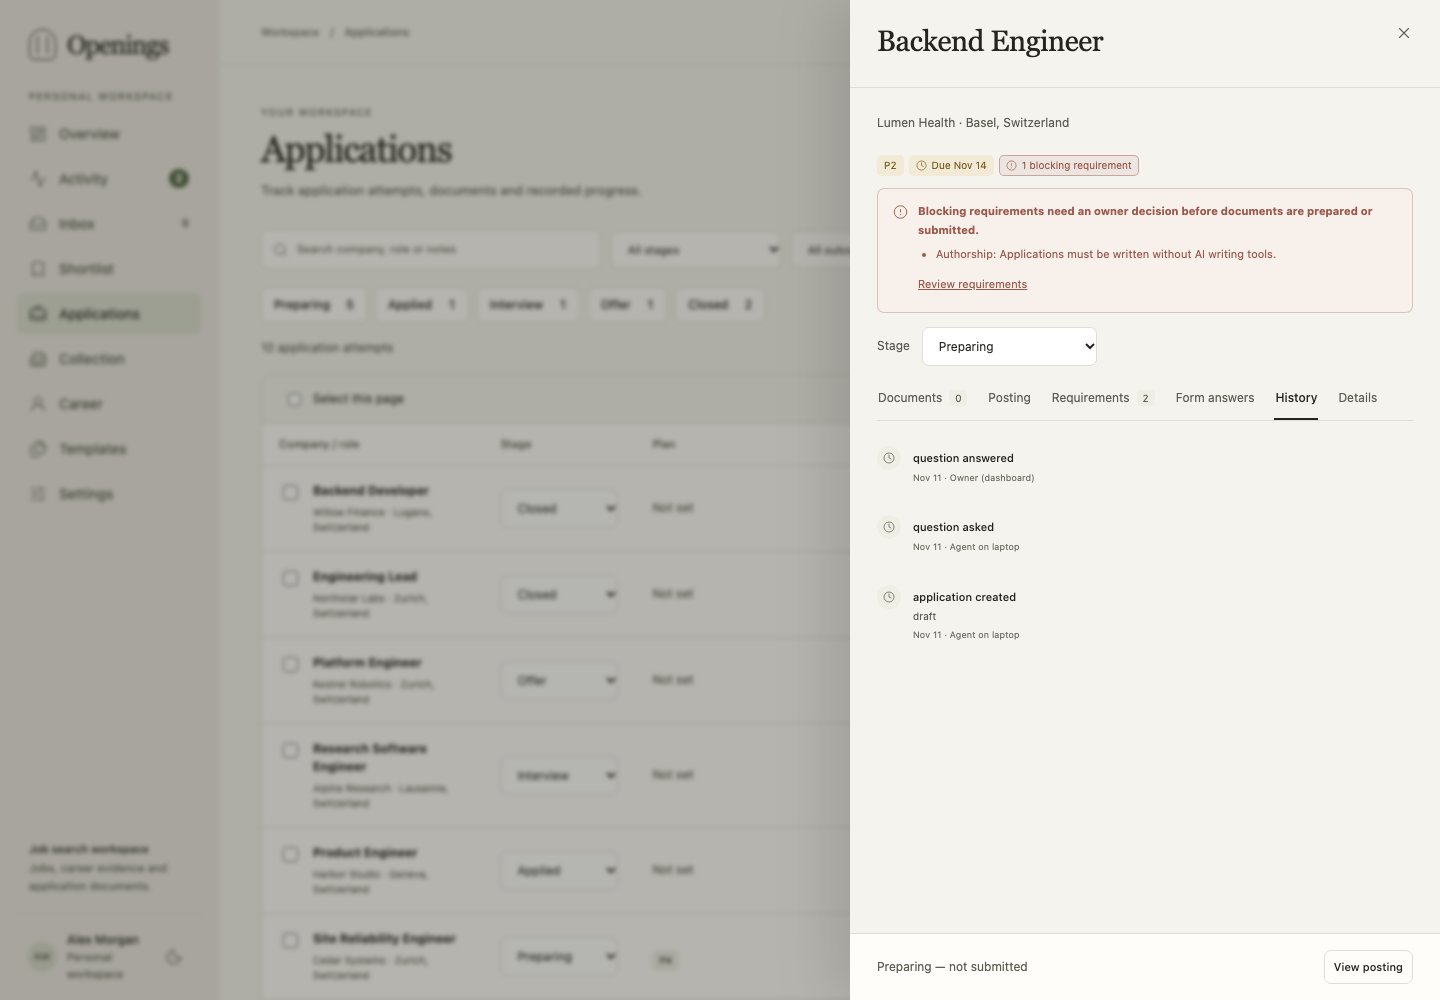
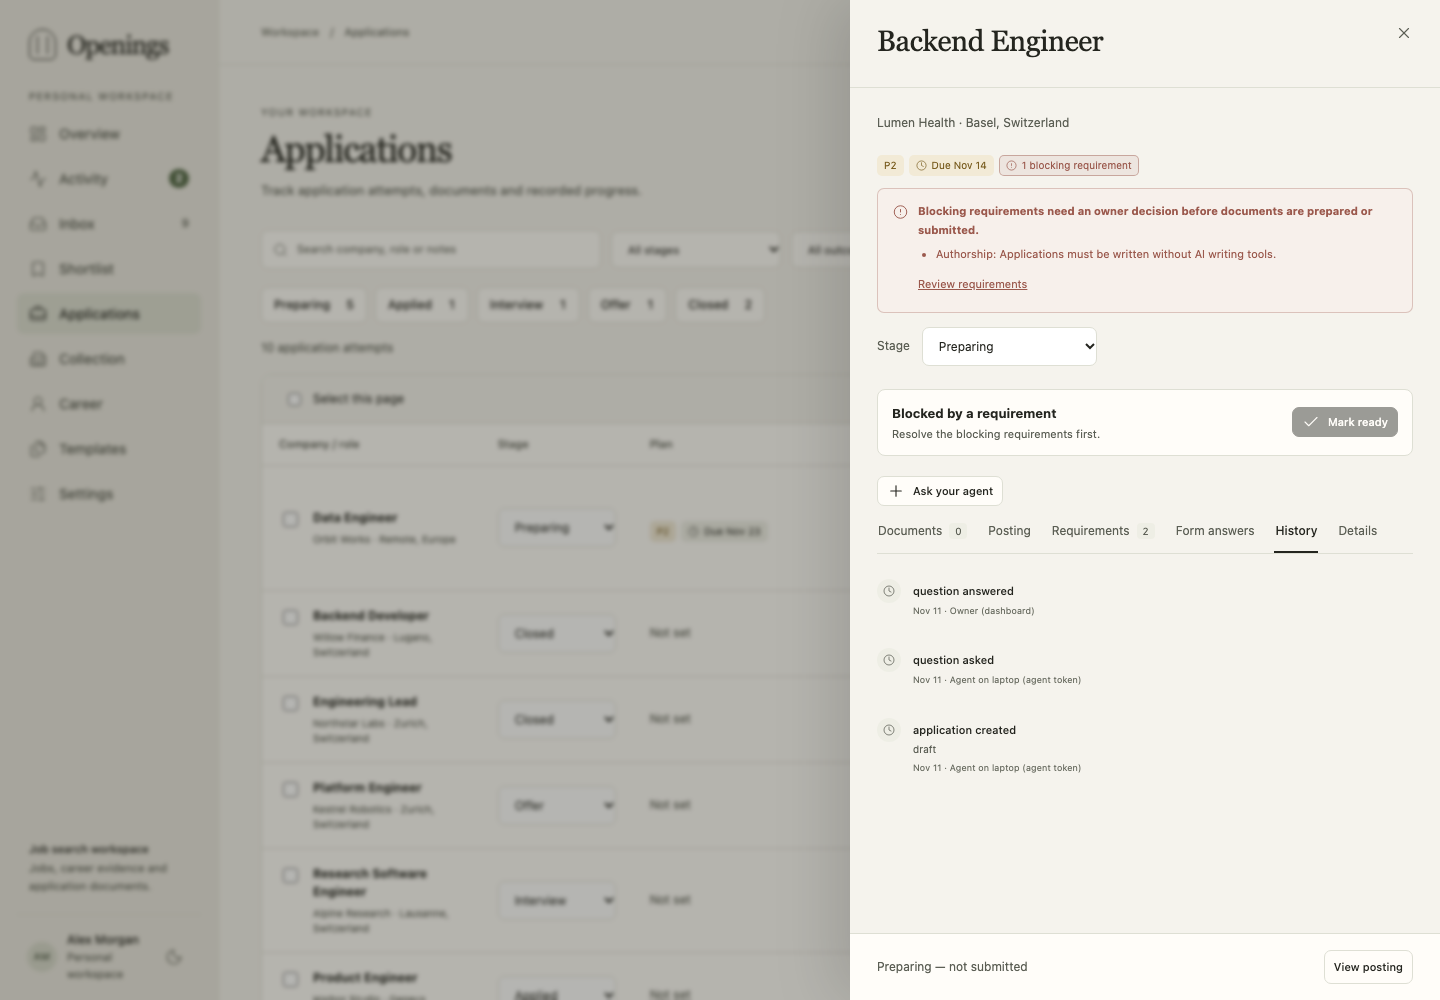
Refresh screenshots and browser evidence for Ready, token kinds and requests
Regenerates docs/images from the synthetic workspace and re-records which
operations the dashboard calls in the browser tests. The Applications stage
overview now has a sixth button, the Ready to apply queue.

diff --git a/frontend/tests/workspace.spec.ts b/frontend/tests/workspace.spec.ts
@@ -438,7 +438,7 @@ test("mobile applications, templates and funnel stay usable inside the viewport"
   await page.setViewportSize({ width: 390, height: 844 });
   await go(page, "applications");
   await expect(page.locator(".application-list")).toBeVisible();
-  await expect(page.locator(".stage-overview .btn")).toHaveCount(5);
+  await expect(page.locator(".stage-overview .btn")).toHaveCount(6);
   await expect
     .poll(() => page.evaluate(() => document.documentElement.scrollWidth))
     .toBeLessThanOrEqual(390);

diff --git a/docs/developer/parity.md b/docs/developer/parity.md
@@ -35,8 +35,8 @@ How to read the evidence:
 | With inputs the dashboard never mentions | 9 |
 | With free-form JSON edited as raw JSON | 13 |
 | With different REST and MCP input names | 1 |
-| With a dashboard path exercised by e2e | 43 |
-| With a dashboard path but no e2e evidence | 53 |
+| With a dashboard path exercised by e2e | 51 |
+| With a dashboard path but no e2e evidence | 45 |
 
 ## Gaps
 
@@ -145,7 +145,7 @@ missing from the inventory.
 
 ### Dashboard paths without e2e evidence
 
-`workspace.capabilities`, `skills.list`, `jobs.create`, `jobs.triage`, `jobs.bulk`, `jobs.duplicates`, `jobs.merge`, `jobs.delete`, `notes.read`, `notes.update`, `notes.delete`, `collection.update`, `sources.preview`, `sources.create`, `sources.bulk`, `tasks.list`, `tasks.read`, `tasks.cancel`, `tasks.retry`, `profile.update`, `knowledge.create`, `knowledge.delete`, `claims.read`, `claims.create`, `claims.update`, `claims.delete`, `templates.create`, `templates.update`, `templates.delete`, `instructions.update`, `career.preview_import`, `career.import`, `applications.create`, `applications.ready`, `applications.delete`, `applications.bulk`, `contexts.read`, `applications.staleness`, `documents.delete`, `files.read`, `backup.download`, `backup.restore`, `questions.withdraw`, `requests.list`, `requests.create`, `requests.withdraw`, `tokens.list`, `tokens.create`, `tokens.revoke`, `password.update`, `collection.runs.list`, `collection.runs.read`, `collection.runs.cancel`
+`workspace.capabilities`, `jobs.create`, `jobs.triage`, `jobs.bulk`, `jobs.duplicates`, `jobs.merge`, `jobs.delete`, `notes.read`, `notes.update`, `notes.delete`, `collection.update`, `sources.preview`, `sources.create`, `sources.bulk`, `tasks.list`, `tasks.read`, `tasks.cancel`, `tasks.retry`, `profile.update`, `knowledge.create`, `knowledge.delete`, `claims.read`, `claims.create`, `claims.update`, `claims.delete`, `templates.create`, `templates.update`, `templates.delete`, `instructions.update`, `career.preview_import`, `career.import`, `applications.create`, `applications.delete`, `applications.bulk`, `contexts.read`, `applications.staleness`, `documents.delete`, `files.read`, `backup.download`, `backup.restore`, `questions.withdraw`, `password.update`, `collection.runs.list`, `collection.runs.read`, `collection.runs.cancel`
 
 ## Matrix
 
@@ -153,13 +153,13 @@ missing from the inventory.
 
 | Operation | REST | MCP | Access | Dashboard location | Dashboard code | Editor | E2E |
 |---|---|---|---|---|---|---|---|
-| `workspace.info`<br>Read workspace identity and workflow | `GET /workspace` | `workspace_info` | any | Settings: workspace information | pages/Settings.tsx | structured | 1 |
+| `workspace.info`<br>Read workspace identity and workflow | `GET /workspace` | `workspace_info` | any | Settings: workspace information | pages/Settings.tsx | structured | 2 |
 | `workspace.capabilities`<br>Read supported logical operations and transport exceptions | `GET /capabilities` | `capabilities_get` | any | Settings: capabilities/help | pages/Settings.tsx | structured | **0** |
-| `skills.list`<br>List shipped agent workflow skills | `GET /skills` | `skills_list` | any | Settings: Connect an agent | pages/Settings.tsx | structured | **0** |
+| `skills.list`<br>List shipped agent workflow skills | `GET /skills` | `skills_list` | any | Settings: Connect an agent | pages/Settings.tsx | structured | 1 |
 | `skills.read`<br>Read a skill or one of its reference files | `GET /skills/{name}`<br>`GET /skills/{name}/files/{path}` | `skill_get` | any | Settings: Connect an agent | **none** | — | — |
-| `overview.read`<br>Read submitted-attempt funnel and activity for a period | `GET /overview` | `overview_get` | any | Overview: period selector and funnel | pages/Overview.tsx | structured | 15 |
-| `jobs.list`<br>Search/filter/sort paginated job summaries | `GET /jobs` | `jobs_search` | any | Inbox: search, filters, pagination | App.tsx<br>pages/Jobs.tsx<br>pages/Settings.tsx | structured | 15 |
-| `jobs.read`<br>Read full posting, metadata and source provenance | `GET /jobs/{job_id}` | `job_get` | any | Inbox: job detail | pages/Jobs.tsx | structured | 5 |
+| `overview.read`<br>Read submitted-attempt funnel and activity for a period | `GET /overview` | `overview_get` | any | Overview: period selector and funnel | pages/Overview.tsx | structured | 18 |
+| `jobs.list`<br>Search/filter/sort paginated job summaries | `GET /jobs` | `jobs_search` | any | Inbox: search, filters, pagination | App.tsx<br>pages/Jobs.tsx<br>pages/Settings.tsx | structured | 18 |
+| `jobs.read`<br>Read full posting, metadata and source provenance | `GET /jobs/{job_id}` | `job_get` | any | Inbox: job detail | pages/Jobs.tsx | structured | 6 |
 | `jobs.create`<br>Import a URL, pasted posting or structured job | `POST /jobs` | `job_ingest` | any | Inbox: Add job | pages/Jobs.tsx | raw JSON: metadata | **0** |
 | `jobs.update`<br>Correct job fields and metadata | `PATCH /jobs/{job_id}` | `job_update` | any | Inbox: edit job | pages/Jobs.tsx | raw JSON: metadata | 1 |
 | `jobs.triage`<br>Shortlist, dismiss or return a job to review | `POST /jobs/{job_id}/triage` | `job_triage` | any | Inbox: Add/remove shortlist, Dismiss, Restore | pages/Jobs.tsx | structured | **0** |
@@ -168,7 +168,7 @@ missing from the inventory.
 | `jobs.duplicates`<br>List candidate duplicate job groups for review | `GET /jobs/duplicates` | `jobs_duplicates` | any | Jobs: Possible duplicates tab; Job details: Possible duplicates | pages/Jobs.tsx | structured | **0** |
 | `jobs.merge`<br>Merge verified duplicate jobs and retain history | `POST /jobs/{job_id}/merge` | `job_merge` | any | Inbox: merge duplicate | pages/Jobs.tsx | structured | **0** |
 | `jobs.delete`<br>Permanently forget job-owned data and identities | `DELETE /jobs/{job_id}` | `job_forget` | any | Inbox: Forget | pages/Jobs.tsx | structured | **0** |
-| `notes.list`<br>List job notes | `GET /jobs/{job_id}/notes` | `notes_list` | any | Inbox: notes | pages/Jobs.tsx | structured | 5 |
+| `notes.list`<br>List job notes | `GET /jobs/{job_id}/notes` | `notes_list` | any | Inbox: notes | pages/Jobs.tsx | structured | 6 |
 | `notes.read`<br>Read one note and its version | `GET /notes/{note_id}` | `note_get` | any | Inbox: note editor | pages/Jobs.tsx | structured | **0** |
 | `notes.create`<br>Add a job note with optional application association | `POST /jobs/{job_id}/notes` | `note_add` | any | Inbox/Applications: add note | pages/Jobs.tsx | structured | 1 |
 | `notes.update`<br>Edit a note with version protection | `PATCH /notes/{note_id}` | `note_update` | any | Inbox/Applications: edit note | pages/Jobs.tsx | structured | **0** |
@@ -203,7 +203,7 @@ missing from the inventory.
 
 | Operation | REST | MCP | Access | Dashboard location | Dashboard code | Editor | E2E |
 |---|---|---|---|---|---|---|---|
-| `profile.read`<br>Read profile, links, metadata and version | `GET /career/profile` | `career_get_profile` | any | Career: profile | App.tsx<br>pages/Career.tsx | structured | 15 |
+| `profile.read`<br>Read profile, links, metadata and version | `GET /career/profile` | `career_get_profile` | any | Career: profile | App.tsx<br>pages/Career.tsx | structured | 18 |
 | `profile.update`<br>Edit profile/preferences/contact | `PATCH /career/profile` | `career_update_profile` | any | Career: profile and Advanced JSON | pages/Career.tsx | raw JSON: metadata | **0** |
 | `knowledge.list`<br>Search/filter paginated career entries summaries | `GET /career/knowledge` | `knowledge_list` | any | Career: career entries: list/search | pages/Applications.tsx<br>pages/Career.tsx | structured | 3 |
 | `knowledge.read`<br>Read full career entries | `GET /career/knowledge/{knowledge_id}` | `knowledge_get` | any | Career: career entries: detail | pages/Career.tsx | structured | 2 |
@@ -215,7 +215,7 @@ missing from the inventory.
 | `claims.create`<br>Create claim | `POST /career/claims` | `claims_create` | any | Career: reusable claims: add | pages/Career.tsx | raw JSON: metadata | **0** |
 | `claims.update`<br>Edit claim with version protection | `PATCH /career/claims/{claim_id}` | `claims_update` | any | Career: reusable claims: edit and Advanced JSON | pages/Career.tsx | raw JSON: metadata | **0** |
 | `claims.delete`<br>Delete live claim | `DELETE /career/claims/{claim_id}` | `claims_delete` | any | Career: reusable claims: remove | pages/Career.tsx | structured | **0** |
-| `templates.list`<br>Search/filter paginated templates summaries | `GET /templates` | `templates_list` | any | Templates: packages/defaults: list/search | pages/Applications.tsx<br>pages/Templates.tsx | structured | 6 |
+| `templates.list`<br>Search/filter paginated templates summaries | `GET /templates` | `templates_list` | any | Templates: packages/defaults: list/search | pages/Applications.tsx<br>pages/Templates.tsx | structured | 7 |
 | `templates.read`<br>Read full template | `GET /templates/{template_id}` | `templates_get` | any | Templates: packages/defaults: detail | pages/Templates.tsx | structured | 1 |
 | `templates.create`<br>Create template | `POST /templates` | `templates_create` | any | Templates: packages/defaults: add | pages/Templates.tsx | raw JSON: rules | **0** |
 | `templates.update`<br>Edit template with version protection | `PATCH /templates/{template_id}` | `templates_update` | any | Templates: packages/defaults: edit and Advanced JSON | pages/Templates.tsx | raw JSON: rules | **0** |
@@ -229,29 +229,29 @@ missing from the inventory.
 
 | Operation | REST | MCP | Access | Dashboard location | Dashboard code | Editor | E2E |
 |---|---|---|---|---|---|---|---|
-| `applications.list`<br>Search/filter/sort paginated application summaries | `GET /applications` | `applications_list` | any | Applications: list/Kanban filters | pages/Applications.tsx<br>pages/Jobs.tsx | structured | 7 |
-| `applications.read`<br>Read full attempt, questions/answers, requirements and job | `GET /applications/{application_id}` | `application_get` | any | Applications: attempt detail | pages/Applications.tsx | structured | 5 |
+| `applications.list`<br>Search/filter/sort paginated application summaries | `GET /applications` | `applications_list` | any | Applications: list/Kanban filters | pages/Applications.tsx<br>pages/Jobs.tsx | structured | 8 |
+| `applications.read`<br>Read full attempt, questions/answers, requirements and job | `GET /applications/{application_id}` | `application_get` | any | Applications: attempt detail | pages/Applications.tsx | structured | 6 |
 | `applications.create`<br>Start application preparation (draft) | `POST /applications` | `application_create` | any | Inbox: Start application | pages/Jobs.tsx | structured | **0** |
 | `applications.update`<br>Record stage, outcome, priority, deadline, employer requirements, questions/answers and application instructions | `PATCH /applications/{application_id}` | `application_update` | any | Applications: progress, planning, requirements and questions/answers | pages/Applications.tsx | raw JSON: answers | 2 |
-| `applications.ready`<br>Mark a Preparing application ready to apply, or clear the mark | `POST /applications/{application_id}/ready` | `application_ready` | any | Applications: Mark ready / Not ready in the attempt; Ready badge, filter and queue | pages/ApplicationReady.tsx | structured | **0** |
+| `applications.ready`<br>Mark a Preparing application ready to apply, or clear the mark | `POST /applications/{application_id}/ready` | `application_ready` | any | Applications: Mark ready / Not ready in the attempt; Ready badge, filter and queue | pages/ApplicationReady.tsx | structured | 1 |
 | `applications.delete`<br>Delete one attempt and its owned history/files | `DELETE /applications/{application_id}` | `application_delete` | any | Applications: delete attempt | pages/Applications.tsx | structured | **0** |
 | `applications.bulk`<br>Close, reopen, mark ready, unmark ready or delete selected application attempts | `POST /applications/bulk` | `applications_bulk` | any | Applications: list selection toolbar | pages/Applications.tsx | structured | **0** |
-| `applications.history`<br>Read immutable lifecycle history | `GET /applications/{application_id}/events` | `application_history` | any | Applications: history | pages/Applications.tsx | structured | 5 |
-| `contexts.list`<br>List/filter compact frozen-context metadata | `GET /contexts` | `contexts_list` | any | Applications: prepared contexts | pages/Applications.tsx | structured | 5 |
+| `applications.history`<br>Read immutable lifecycle history | `GET /applications/{application_id}/events` | `application_history` | any | Applications: history | pages/Applications.tsx | structured | 6 |
+| `contexts.list`<br>List/filter compact frozen-context metadata | `GET /contexts` | `contexts_list` | any | Applications: prepared contexts | pages/Applications.tsx | structured | 6 |
 | `contexts.read`<br>Read full frozen context and signature | `GET /contexts/{context_id}` | `contexts_get` | any | Applications: context detail | pages/Applications.tsx | structured | **0** |
 | `contexts.create`<br>Prepare an immutable context for external generation | `POST /contexts` | `application_prepare_context` | any | Applications: prepare context | pages/Applications.tsx | structured | 1 |
 | `applications.staleness`<br>Report whether an attempt's current revisions use outdated inputs | `GET /applications/{application_id}/staleness` | `application_staleness` | any | Applications: Built on older inputs indicator and detail | pages/Applications.tsx | structured | **0** |
 | `applications.staleness_list`<br>List attempts whose current revisions use outdated inputs | `GET /staleness` | `applications_staleness` | any | Applications: Built on older inputs badges on cards and rows | via `applications.list`, `applications.staleness` | — | — |
-| `documents.list`<br>List/filter paginated revision summaries | `GET /documents` | `documents_list` | any | Applications: documents/history | pages/Applications.tsx | structured | 5 |
-| `documents.read`<br>Read exact revision content, chain number and files | `GET /documents/{document_id}` | `documents_get` | any | Applications: revision detail and preview | pages/Applications.tsx | structured | 1 |
-| `documents.create`<br>Save content as a new immutable revision | `POST /documents` | `documents_create` | any | Applications: add/edit content as a new revision | pages/Applications.tsx | structured | 1 |
-| `documents.review`<br>Approve the exact revision content/files | `POST /documents/{document_id}/review` | `documents_review` | any | Applications: Approve revision | pages/Applications.tsx | structured | 1 |
-| `documents.consistency`<br>Compare structured content text with the attached .tex source | `GET /documents/{document_id}/consistency` | `documents_consistency` | any | Applications: approval reports content/source differences | pages/Applications.tsx | structured | 1 |
+| `documents.list`<br>List/filter paginated revision summaries | `GET /documents` | `documents_list` | any | Applications: documents/history | pages/Applications.tsx | structured | 6 |
+| `documents.read`<br>Read exact revision content, chain number and files | `GET /documents/{document_id}` | `documents_get` | any | Applications: revision detail and preview | pages/Applications.tsx | structured | 2 |
+| `documents.create`<br>Save content as a new immutable revision | `POST /documents` | `documents_create` | any | Applications: add/edit content as a new revision | pages/Applications.tsx | structured | 2 |
+| `documents.review`<br>Approve the exact revision content/files | `POST /documents/{document_id}/review` | `documents_review` | any | Applications: Approve revision | pages/Applications.tsx | structured | 2 |
+| `documents.consistency`<br>Compare structured content text with the attached .tex source | `GET /documents/{document_id}/consistency` | `documents_consistency` | any | Applications: approval reports content/source differences | pages/Applications.tsx | structured | 2 |
 | `documents.delete`<br>Delete an entire revision and its files | `DELETE /documents/{document_id}` | `documents_delete` | any | Applications: delete revision | pages/Applications.tsx | structured | **0** |
 | `files.list`<br>List/filter paginated file metadata | `GET /files` | `files_list` | any | Career/Templates/Applications/Inbox: assets and files | api.ts<br>files.tsx | structured | 1 |
 | `files.read`<br>Read immutable file metadata and content URL | `GET /files/{file_id}` | `files_get` | any | Career/Templates/Applications/Inbox: file details | files.tsx | structured | **0** |
-| `files.upload`<br>Upload exact raw bytes to a mutable owner | `POST /files/uploads`<br>`PUT /transfers` | `files_reserve_upload` | any | Career/Templates/Applications/Inbox: upload file | api.ts | structured | 2 |
-| `files.download`<br>Download/preview exact file bytes | `GET /files/{file_id}/content`<br>`POST /files/{file_id}/download`<br>`GET /transfers` | `files_reserve_download` | any | Career/Templates/Applications/Inbox: preview/download | api.ts | structured | 2 |
+| `files.upload`<br>Upload exact raw bytes to a mutable owner | `POST /files/uploads`<br>`PUT /transfers` | `files_reserve_upload` | any | Career/Templates/Applications/Inbox: upload file | api.ts | structured | 3 |
+| `files.download`<br>Download/preview exact file bytes | `GET /files/{file_id}/content`<br>`POST /files/{file_id}/download`<br>`GET /transfers` | `files_reserve_download` | any | Career/Templates/Applications/Inbox: preview/download | api.ts | structured | 3 |
 | `files.delete`<br>Delete a live knowledge/template/job asset | `DELETE /files/{file_id}` | `files_delete` | any | Career/Templates/Inbox: remove asset | files.tsx | structured | 1 |
 
 ### Workspace access and portability
@@ -261,30 +261,30 @@ missing from the inventory.
 | `export.records`<br>Download portable JSON records without file bytes | `GET /export` | `workspace_export` | any | Settings: export records | pages/Settings.tsx | structured | 1 |
 | `backup.download`<br>Download a consistent SQLite backup including bytes | `GET /backup` | `workspace_backup` | any | Settings: download backup | pages/Settings.tsx | structured | **0** |
 | `backup.restore`<br>Replace workspace data from a SQLite backup | `POST /backup/restore` | `workspace_restore_upload` | owner | Settings: restore backup | pages/Settings.tsx | structured | **0** |
-| `tokens.list`<br>List API token metadata and kinds | `GET /tokens` | `tokens_list` | owner | Settings: access tokens with their kind | pages/Settings.tsx | structured | **0** |
-| `tokens.create`<br>Create a named owner or agent API token | `POST /tokens` | `token_create` | owner | Settings: create access token (owner or agent) | pages/Settings.tsx | structured | **0** |
-| `tokens.revoke`<br>Revoke an API token | `DELETE /tokens/{token_id}` | `token_revoke` | owner | Settings: revoke access token | pages/Settings.tsx | structured | **0** |
+| `tokens.list`<br>List API token metadata and kinds | `GET /tokens` | `tokens_list` | owner | Settings: access tokens with their kind | pages/Settings.tsx | structured | 1 |
+| `tokens.create`<br>Create a named owner or agent API token | `POST /tokens` | `token_create` | owner | Settings: create access token (owner or agent) | pages/Settings.tsx | structured | 1 |
+| `tokens.revoke`<br>Revoke an API token | `DELETE /tokens/{token_id}` | `token_revoke` | owner | Settings: revoke access token | pages/Settings.tsx | structured | 1 |
 | `password.update`<br>Change owner password and rotate owner sessions | `POST /auth/password` | `owner_password_update` | owner | Settings: change password | pages/Settings.tsx | structured | **0** |
 
 ### Agent activity
 
 | Operation | REST | MCP | Access | Dashboard location | Dashboard code | Editor | E2E |
 |---|---|---|---|---|---|---|---|
-| `events.list`<br>List recorded changes with actor, run and subject | `GET /events` | `events_list` | any | Activity: Changes; run detail | pages/Activity.tsx | structured | 1 |
+| `events.list`<br>List recorded changes with actor, run and subject | `GET /events` | `events_list` | any | Activity: Changes; run detail | pages/Activity.tsx | structured | 2 |
 | `runs.list`<br>List agent runs by status, workflow, token or start time | `GET /runs` | `runs_list` | any | Activity: Runs | pages/Activity.tsx | structured | 1 |
-| `runs.read`<br>Read an agent run with its report, questions and changes | `GET /runs/{run_id}` | `runs_get` | any | Activity: run detail | pages/Activity.tsx | structured | 1 |
+| `runs.read`<br>Read an agent run with its report, questions and changes | `GET /runs/{run_id}` | `runs_get` | any | Activity: run detail | pages/Activity.tsx | structured | 2 |
 | `runs.start`<br>Open an agent run for the calling API token | `POST /runs` | `runs_start` | any | Activity: Runs (read only) | **none** | — | — |
 | `runs.update`<br>Record a progress note on the calling token's open run | `PATCH /runs/{run_id}` | `runs_update` | any | Activity: run detail (read only) | **none** | — | — |
 | `runs.finish`<br>Close the calling token's run with its report | `POST /runs/{run_id}/finish` | `runs_finish` | any | Activity: run detail (read only) | **none** | — | — |
-| `questions.list`<br>List questions for the owner by state, subject, run or answer time | `GET /questions` | `questions_list` | any | Activity: Questions; navigation count | App.tsx<br>pages/Activity.tsx | structured | 15 |
+| `questions.list`<br>List questions for the owner by state, subject, run or answer time | `GET /questions` | `questions_list` | any | Activity: Questions; navigation count | App.tsx<br>pages/Activity.tsx | structured | 18 |
 | `questions.read`<br>Read one question for the owner | `GET /questions/{question_id}` | `questions_get` | any | Activity: Questions | via `questions.list` | — | — |
 | `questions.ask`<br>Ask the owner a question tied to a job, application, Career entry or nothing | `POST /questions` | `questions_ask` | any | Activity: Questions (answer only) | **none** | — | — |
 | `questions.answer`<br>Answer a question for the owner | `POST /questions/{question_id}/answer` | `questions_answer` | owner | Activity: Questions: answer | pages/Activity.tsx | structured | 1 |
 | `questions.withdraw`<br>Withdraw an open question | `POST /questions/{question_id}/withdraw` | `questions_withdraw` | any | Activity: Questions: withdraw | pages/Activity.tsx | structured | **0** |
-| `requests.list`<br>List requests for the agent by state, subject, run or change time | `GET /requests` | `requests_list` | any | Activity: Requests; job and application: Ask your agent | pages/Requests.tsx | structured | **0** |
+| `requests.list`<br>List requests for the agent by state, subject, run or change time | `GET /requests` | `requests_list` | any | Activity: Requests; job and application: Ask your agent | pages/Requests.tsx | structured | 12 |
 | `requests.read`<br>Read one request for the agent | `GET /requests/{request_id}` | `requests_get` | any | Activity: Requests | via `requests.list` | — | — |
-| `requests.create`<br>Write a request for the agent tied to a job, application, Career entry or nothing | `POST /requests` | `requests_create` | owner | Activity: Requests: write a request; job and application: Ask your agent | pages/Requests.tsx | structured | **0** |
+| `requests.create`<br>Write a request for the agent tied to a job, application, Career entry or nothing | `POST /requests` | `requests_create` | owner | Activity: Requests: write a request; job and application: Ask your agent | pages/Requests.tsx | structured | 1 |
 | `requests.take`<br>Take an open request for the calling token's run | `POST /requests/{request_id}/take` | `requests_take` | any | Activity: Requests (read only) | **none** | — | — |
 | `requests.complete`<br>Complete a request with its result | `POST /requests/{request_id}/complete` | `requests_complete` | any | Activity: Requests (read only) | **none** | — | — |
 | `requests.decline`<br>Decline a request with a reason | `POST /requests/{request_id}/decline` | `requests_decline` | any | Activity: Requests (read only) | **none** | — | — |
-| `requests.withdraw`<br>Withdraw an open or taken request | `POST /requests/{request_id}/withdraw` | `requests_withdraw` | owner | Activity: Requests: withdraw | pages/Requests.tsx | structured | **0** |
+| `requests.withdraw`<br>Withdraw an open or taken request | `POST /requests/{request_id}/withdraw` | `requests_withdraw` | owner | Activity: Requests: withdraw | pages/Requests.tsx | structured | 1 |
